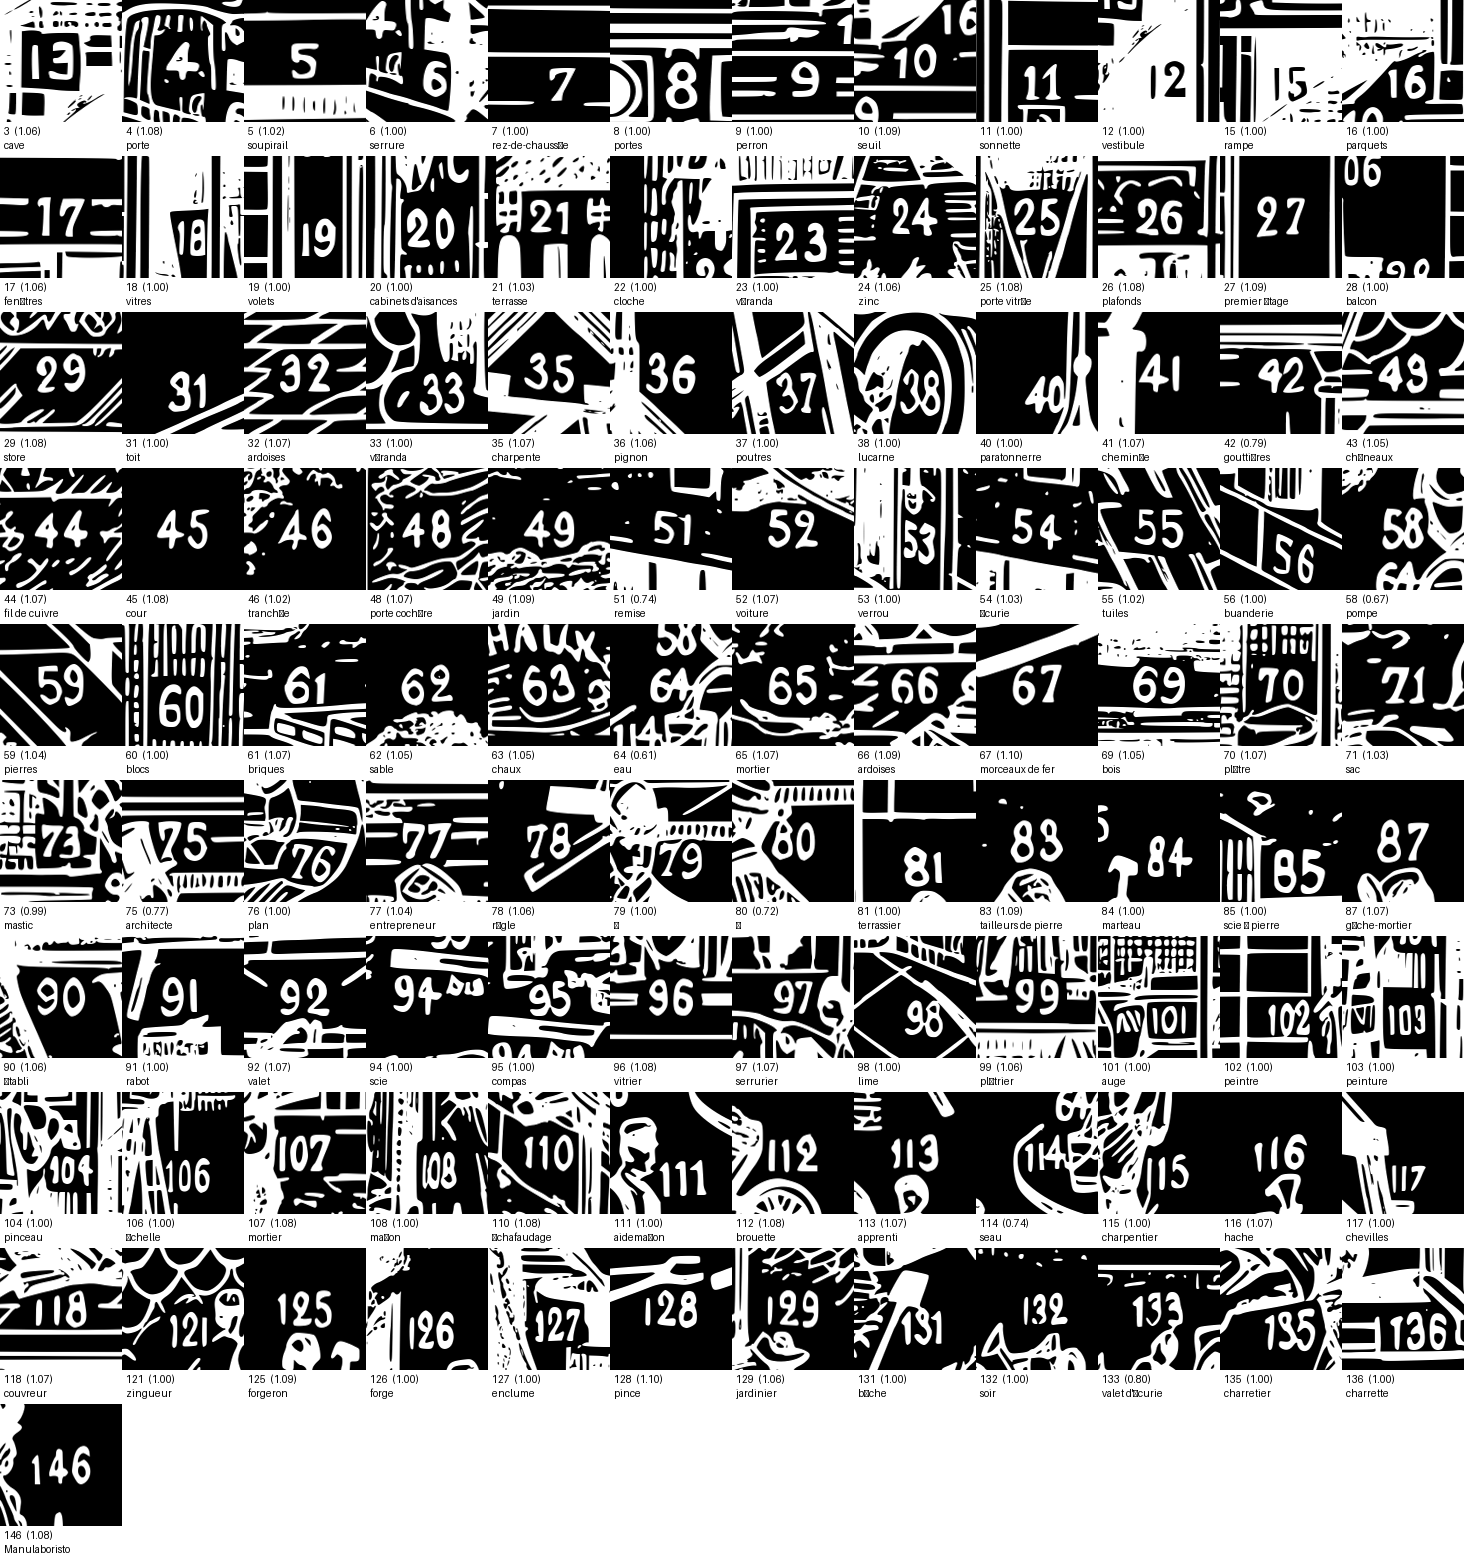
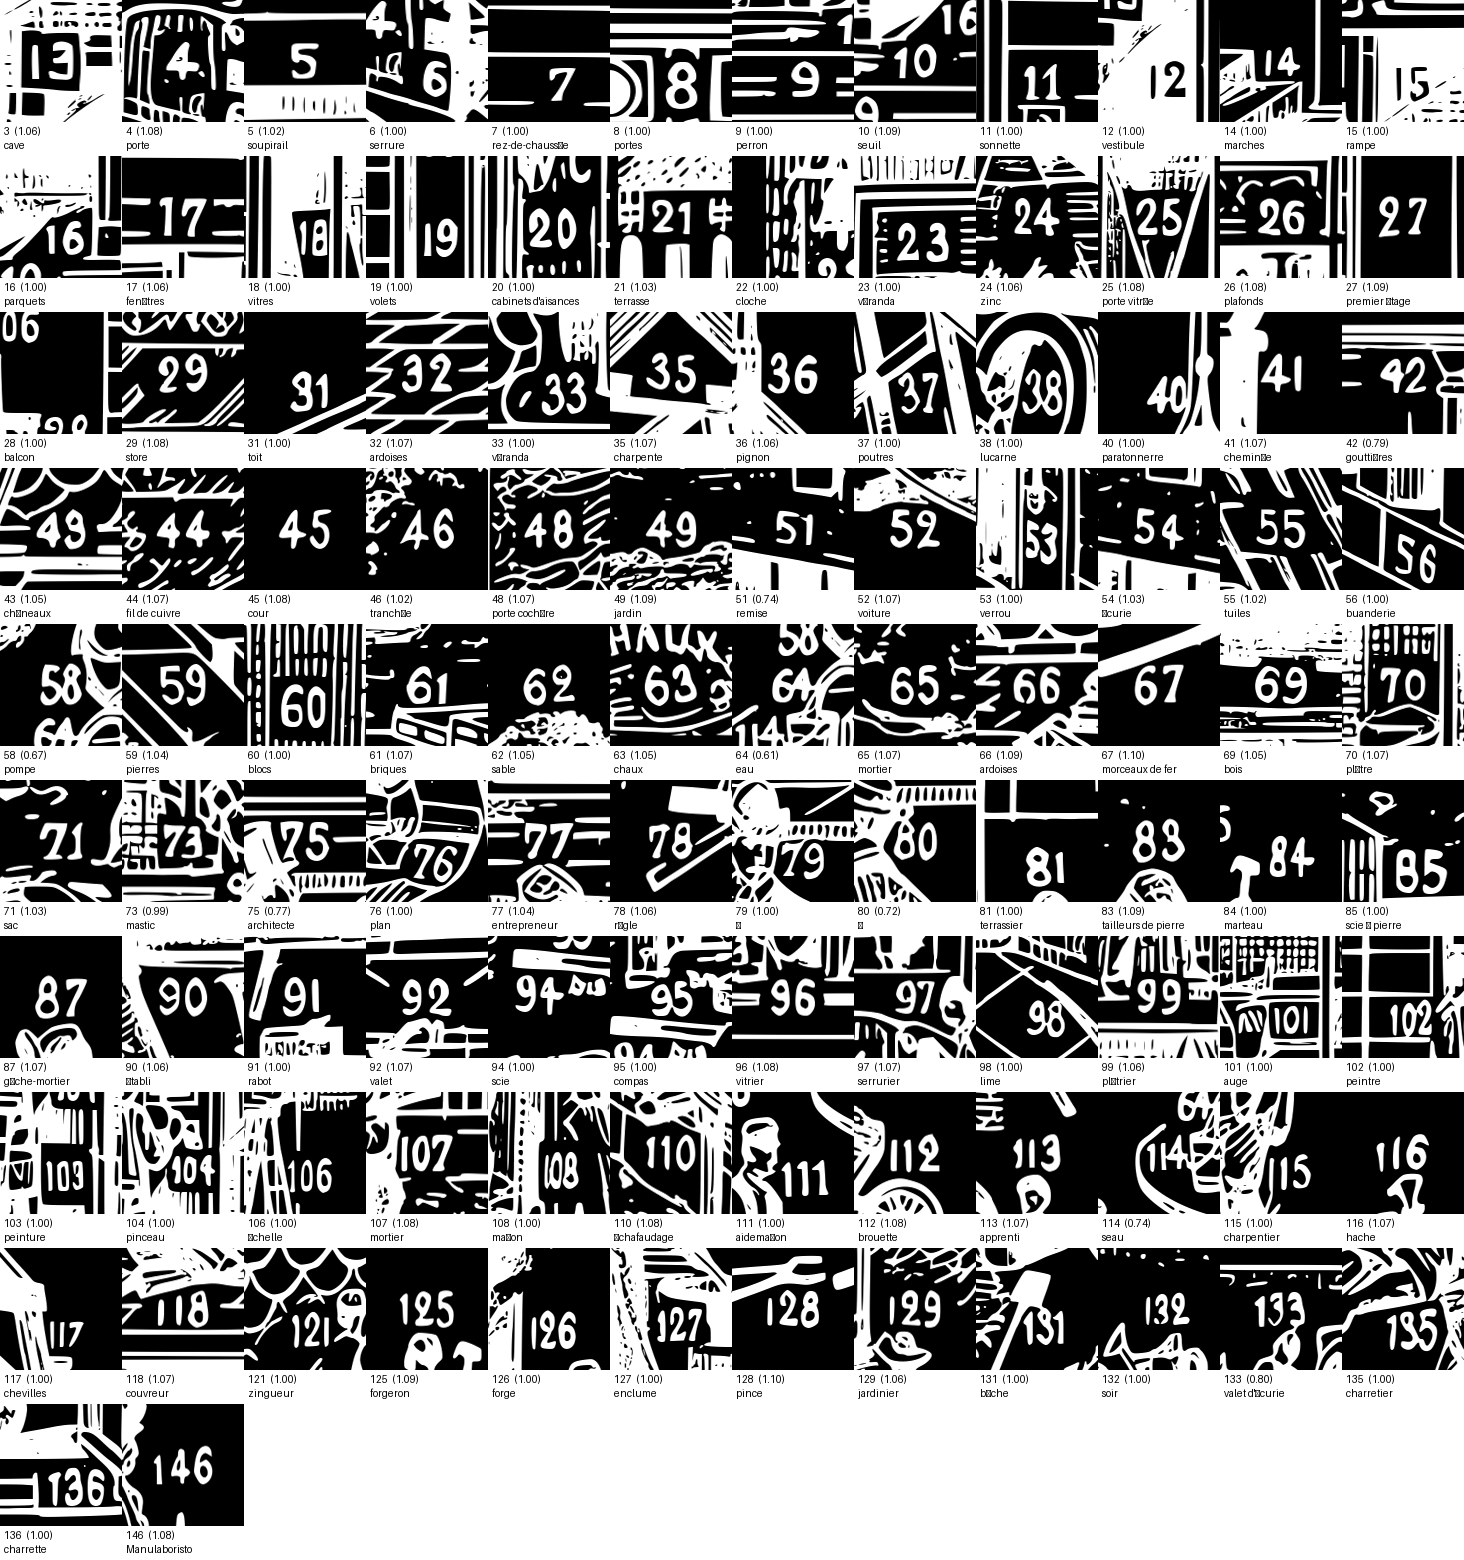
1526 numeros situes sur 1672 — quatre-vingt-onze pour cent
Le tableau 5 rend le seuil de sa porte, le 11 ses musiciens et sa
chaussee. Restent 146 numeros, dont vingt et un au seul tableau 14 : ce
sont ceux que trois passes n'ont pas su voir, tapis dans les hachures
d'une rue commercante.

diff --git a/index.html b/index.html
@@ -646,7 +646,7 @@ mark{background:rgba(180,85,45,.22);color:inherit;border-radius:2px}
 <figure class="gravuro" data-cle="t05-apar-2" data-detalo="gravuri/t05-apar-2-detalo.webp" data-dl="2600" data-dh="1839"><img src="gravuri/t05-apar-2-vido.webp" alt="" srcset="gravuri/t05-apar-2-vido.webp 1200w, gravuri/t05-apar-2-detalo.webp 2600w" sizes="(max-width:900px) calc(100vw - 64px), min(calc(100vw - 314px), 1246px)" loading="lazy" decoding="async" width="1200" height="849"></figure>
 <div class="r apar" id="t05-apar-2" data-cle="t05-apar-2"><div class="k io"><a class="fol" href="tabeli.pdf#page=37" title="Folio 35 en la PDF">35</a><span id="t05-apar-2-l0" class="pk" data-rolo="sekc"><i>(Videz la plano.)</i></span></div><div class="k tra" data-lg="fr"><a class="fol fd" href="tableaux.pdf#page=35" title="Folio 33 dans le PDF">33</a><span class="pk" data-rolo="sekc"><i>(Voir le Plan.)</i></span></div></div>
 <div class="r p" id="t05-01-48" data-cle="t05-01-48"><div class="k io"><a class="fol" href="tabeli.pdf#page=37" title="Folio 35 en la PDF">35</a>L’Arkitekto. — Venez, Ioannes, me quik igos tu explorar la diversa parti di la domo.</div><div class="k tra" data-lg="fr"><a class="fol fd" href="tableaux.pdf#page=35" title="Folio 33 dans le PDF">33</a>L’Architecte. — Viens, Jean, je vais te faire visiter les différentes parties de la maison.</div></div>
-<div class="r p" id="t05-01-49" data-cle="t05-01-49"><div class="k io"><a class="fol" href="tabeli.pdf#page=37" title="Folio 35 en la PDF">35</a>Ni enirez la <b>teretajo</b> <button class="lupo" data-g="t05-apar-2" data-c="0.318415,0.169287,0.005986,0.013704" data-n="7" title="teretajo" aria-expanded="false"><sup>(7)</sup></button>. Yen la butono di la <b>klosheto</b> <button class="lupo" data-g="t05-apar-1" data-c="0.210835,0.561957,0.007504,0.010326" data-n="11" title="klosheto" aria-expanded="false"><sup>(11)</sup></button>. Ni acensas la tri <b>gradi</b> <sup>(14)</sup> dil <b>perono</b> <button class="lupo" data-g="t05-apar-2" data-c="0.474344,0.274486,0.005131,0.010077" data-n="9" title="perono" aria-expanded="false"><sup>(9)</sup></button>, ni transiras la <b>solio</b> <button class="lupo" data-g="t05-apar-1" data-c="0.183382,0.636957,0.008053,0.008967" data-n="10" title="solio" aria-expanded="false"><sup>(10)</sup></button> dil eniro- <b>pordo</b> <button class="lupo" data-g="t05-apar-1" data-c="0.173499,0.50788,0.004575,0.010326" data-n="8" title="pordi" aria-expanded="false"><sup>(8)</sup></button> e yen ke ni esas an la pedo dil <b>eskalero</b> <button class="lupo" data-g="t05-apar-2" data-c="0.462657,0.186618,0.008837,0.01048" data-n="13" title="eskalero" aria-expanded="false"><sup>(13)</sup></button>.</div><div class="k tra" data-lg="fr"><a class="fol fd" href="tableaux.pdf#page=35" title="Folio 33 dans le PDF">33</a>Entrons au <b>rez-de-chaussée</b> <button class="lupo" data-g="t05-apar-2" data-c="0.318415,0.169287,0.005986,0.013704" data-n="7" title="rez-de-chaussée" aria-expanded="false"><sup>(7)</sup></button>. Voilà le bouton de la <b>sonnette</b> <button class="lupo" data-g="t05-apar-1" data-c="0.210835,0.561957,0.007504,0.010326" data-n="11" title="sonnette" aria-expanded="false"><sup>(11)</sup></button>. Nous montons les trois <b>marches</b> <sup>(14)</sup> du <b>perron</b> <button class="lupo" data-g="t05-apar-2" data-c="0.474344,0.274486,0.005131,0.010077" data-n="9" title="perron" aria-expanded="false"><sup>(9)</sup></button>, nous passons le <b>seuil</b> <button class="lupo" data-g="t05-apar-1" data-c="0.183382,0.636957,0.008053,0.008967" data-n="10" title="seuil" aria-expanded="false"><sup>(10)</sup></button> de la <b>porte d’entrée</b> <button class="lupo" data-g="t05-apar-1" data-c="0.173499,0.50788,0.004575,0.010326" data-n="8" title="portes" aria-expanded="false"><sup>(8)</sup></button> et nous voici au pied de l’<b>escalier</b> <button class="lupo" data-g="t05-apar-2" data-c="0.462657,0.186618,0.008837,0.01048" data-n="13" title="escalier" aria-expanded="false"><sup>(13)</sup></button>.</div></div>
+<div class="r p" id="t05-01-49" data-cle="t05-01-49"><div class="k io"><a class="fol" href="tabeli.pdf#page=37" title="Folio 35 en la PDF">35</a>Ni enirez la <b>teretajo</b> <button class="lupo" data-g="t05-apar-2" data-c="0.318415,0.169287,0.005986,0.013704" data-n="7" title="teretajo" aria-expanded="false"><sup>(7)</sup></button>. Yen la butono di la <b>klosheto</b> <button class="lupo" data-g="t05-apar-1" data-c="0.210835,0.561957,0.007504,0.010326" data-n="11" title="klosheto" aria-expanded="false"><sup>(11)</sup></button>. Ni acensas la tri <b>gradi</b> <button class="lupo" data-g="t05-apar-1" data-c="0.218338,0.636957,0.0097,0.010326" data-n="14" title="gradi" aria-expanded="false"><sup>(14)</sup></button> dil <b>perono</b> <button class="lupo" data-g="t05-apar-2" data-c="0.474344,0.274486,0.005131,0.010077" data-n="9" title="perono" aria-expanded="false"><sup>(9)</sup></button>, ni transiras la <b>solio</b> <button class="lupo" data-g="t05-apar-1" data-c="0.183382,0.636957,0.008053,0.008967" data-n="10" title="solio" aria-expanded="false"><sup>(10)</sup></button> dil eniro- <b>pordo</b> <button class="lupo" data-g="t05-apar-1" data-c="0.173499,0.50788,0.004575,0.010326" data-n="8" title="pordi" aria-expanded="false"><sup>(8)</sup></button> e yen ke ni esas an la pedo dil <b>eskalero</b> <button class="lupo" data-g="t05-apar-2" data-c="0.462657,0.186618,0.008837,0.01048" data-n="13" title="eskalero" aria-expanded="false"><sup>(13)</sup></button>.</div><div class="k tra" data-lg="fr"><a class="fol fd" href="tableaux.pdf#page=35" title="Folio 33 dans le PDF">33</a>Entrons au <b>rez-de-chaussée</b> <button class="lupo" data-g="t05-apar-2" data-c="0.318415,0.169287,0.005986,0.013704" data-n="7" title="rez-de-chaussée" aria-expanded="false"><sup>(7)</sup></button>. Voilà le bouton de la <b>sonnette</b> <button class="lupo" data-g="t05-apar-1" data-c="0.210835,0.561957,0.007504,0.010326" data-n="11" title="sonnette" aria-expanded="false"><sup>(11)</sup></button>. Nous montons les trois <b>marches</b> <button class="lupo" data-g="t05-apar-1" data-c="0.218338,0.636957,0.0097,0.010326" data-n="14" title="marches" aria-expanded="false"><sup>(14)</sup></button> du <b>perron</b> <button class="lupo" data-g="t05-apar-2" data-c="0.474344,0.274486,0.005131,0.010077" data-n="9" title="perron" aria-expanded="false"><sup>(9)</sup></button>, nous passons le <b>seuil</b> <button class="lupo" data-g="t05-apar-1" data-c="0.183382,0.636957,0.008053,0.008967" data-n="10" title="seuil" aria-expanded="false"><sup>(10)</sup></button> de la <b>porte d’entrée</b> <button class="lupo" data-g="t05-apar-1" data-c="0.173499,0.50788,0.004575,0.010326" data-n="8" title="portes" aria-expanded="false"><sup>(8)</sup></button> et nous voici au pied de l’<b>escalier</b> <button class="lupo" data-g="t05-apar-2" data-c="0.462657,0.186618,0.008837,0.01048" data-n="13" title="escalier" aria-expanded="false"><sup>(13)</sup></button>.</div></div>
 <div class="r p" id="t05-01-50" data-cle="t05-01-50"><div class="k io"><a class="fol" href="tabeli.pdf#page=37" title="Folio 35 en la PDF">35</a>Ioannes. — To esas la koridoro.</div><div class="k tra" data-lg="fr"><a class="fol fd" href="tableaux.pdf#page=35" title="Folio 33 dans le PDF">33</a>Jean. — C’est le corridor.</div></div>
 <div class="r p" id="t05-01-51" data-cle="t05-01-51"><div class="k io"><a class="fol" href="tabeli.pdf#page=38" title="Folio 36 en la PDF">36</a>L’Arkitekto. — No, to esas la <b>vestibulo</b> <button class="lupo" data-g="t05-apar-2" data-c="0.485747,0.207981,0.010262,0.010883" data-n="12" title="vestibulo" aria-expanded="false"><sup>(12)</sup></button>. La <b>koridoro</b> <sup>(a)</sup> esas ye l’extremajo. Dextre, yen la <b>salono</b> <sup>(b)</sup> e la <b>manjo-chambro</b> <sup>(c)</sup>, opoze a la manjo-chambro esas la <b>koqueyo</b> <sup>(d)</sup> e la <b>servisteyo</b> <sup>(e)</sup>, pose avane la <b>skribo-chambro</b><sup>(f)</sup>. La <b>verando</b> <button class="lupo" data-g="t05-apar-2" data-c="0.617161,0.165659,0.011117,0.010883" data-n="23" title="verando" aria-expanded="false"><sup>(23)</sup></button> kun sua <b>vitrizita pordo</b> <button class="lupo" data-g="t05-apar-1" data-c="0.436127,0.544022,0.008968,0.010326" data-n="25" title="vitrizita pordo" aria-expanded="false"><sup>(25)</sup></button> esas proxim la salono.</div><div class="k tra" data-lg="fr"><a class="fol fd" href="tableaux.pdf#page=35" title="Folio 33 dans le PDF">33</a>L’Architecte. — Non, c’est le <b>vestibule</b> <button class="lupo" data-g="t05-apar-2" data-c="0.485747,0.207981,0.010262,0.010883" data-n="12" title="vestibule" aria-expanded="false"><sup>(12)</sup></button>. Le <b>corridor</b> <sup>(a)</sup> se trouve au bout. A droite, voici le <b>salon</b> <sup>(b)</sup> et la <b>salle à manger</b> <sup>(c)</sup>; en face de la salle à manger se trouvent la <b>cuisine</b> <sup>(d)</sup> et l’<b>office</b> <sup>(e)</sup>; puis sur le devant, le <b>cabinet de travail</b> <sup>(f)</sup>. La <b>véranda</b> <button class="lupo" data-g="t05-apar-2" data-c="0.617161,0.165659,0.011117,0.010883" data-n="23" title="véranda" aria-expanded="false"><sup>(23)</sup></button>, avec sa <b>porte vitrée</b> <button class="lupo" data-g="t05-apar-1" data-c="0.436127,0.544022,0.008968,0.010326" data-n="25" title="porte vitrée" aria-expanded="false"><sup>(25)</sup></button>, est auprès du salon.</div></div>
 <div class="r p" id="t05-01-52" data-cle="t05-01-52"><div class="k io"><a class="fol" href="tabeli.pdf#page=38" title="Folio 36 en la PDF">36</a>Ni quik acensos l’eskalero, Sustenez tu per la <b>pasamano</b> <button class="lupo" data-g="t05-apar-1" data-c="0.179539,0.539946,0.008785,0.010326" data-n="15" title="pasamano" aria-expanded="false"><sup>(15)</sup></button> e kontez la gradi. Li esas dek- e-quar. Yen la <b>fluro</b> <sup>(m)</sup>, ni esas sur l’unesma <b>etajo</b> <button class="lupo" data-g="t05-apar-1" data-c="0.135798,0.389674,0.009883,0.011413" data-n="27" title="etajo" aria-expanded="false"><sup>(27)</sup></button>.</div><div class="k tra" data-lg="fr"><a class="fol fd" href="tableaux.pdf#page=35" title="Folio 33 dans le PDF">33</a>Nous allons monter l’escalier. Tiens la <b>rampe</b> <button class="lupo" data-g="t05-apar-1" data-c="0.179539,0.539946,0.008785,0.010326" data-n="15" title="rampe" aria-expanded="false"><sup>(15)</sup></button> et compte les marches. Il y en a quatorze. Voici le <b>palier</b> <sup>(m)</sup>, nous sommes au <b>premier étage</b> <button class="lupo" data-g="t05-apar-1" data-c="0.135798,0.389674,0.009883,0.011413" data-n="27" title="premier étage" aria-expanded="false"><sup>(27)</sup></button>.</div></div>
